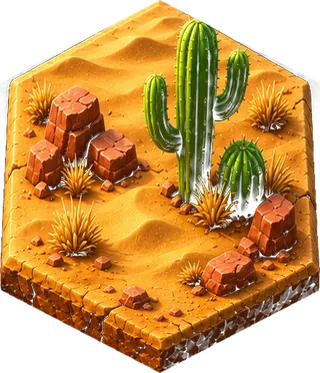
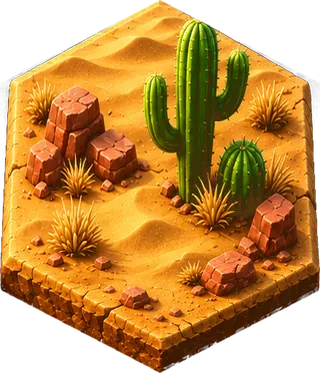
fix: modern karolardaki şeffaf delikler dolduruldu (deniz arkadan görünmesin)
Claude-Session: https://claude.ai/code/session_01QibjsRSt2QAKKNbnPooWG9

diff --git a/app.js b/app.js
@@ -388,7 +388,7 @@ function draw(boardState, drawOpts) {
       const OVERLAP = 1.06;
       const w = Math.sqrt(3) * size * OVERLAP;
       g.appendChild(svgEl("image", {
-        href: `assets/modern/${tile.key}.webp`,
+        href: `assets/modern/${tile.key}.webp?v=2`,
         x: x - w / 2, y: y - size * look.ys * OVERLAP,
         width: w, height: (2 * size * look.ys + look.depth * size) * OVERLAP,
         preserveAspectRatio: "none",
